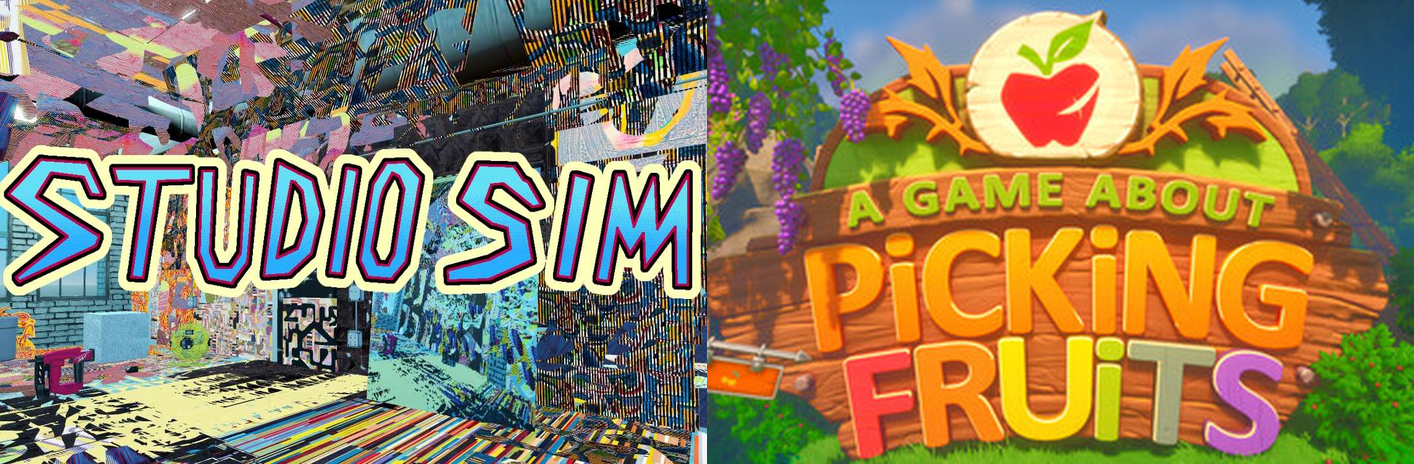
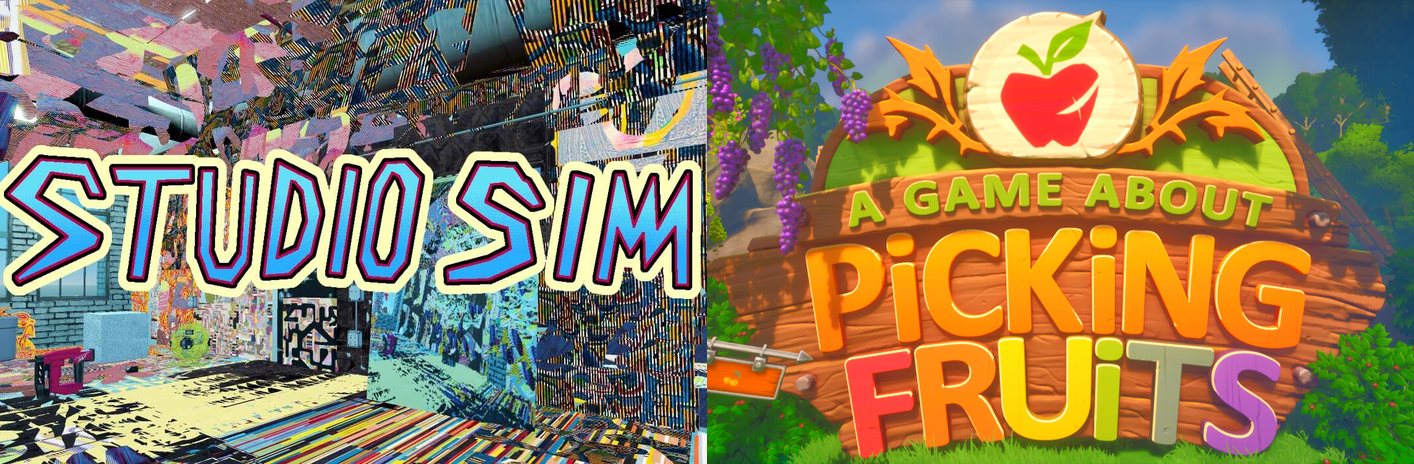
Bundle art: pull partner capsules from Steam, per-size partner art
fetch_steam_art.py downloads a game's 2x store capsules from its store URL.
make_bundle_art.py gains --partner-for so each size uses the best-shaped
partner capsule. Picking Fruits set redone from their full-size capsules.

Claude-Session: https://claude.ai/code/session_01WtdsPCwAw2VSsHfxYu9sJd

diff --git a/Steam/bundle/make_bundle_art.py b/Steam/bundle/make_bundle_art.py
@@ -1,7 +1,8 @@
 """Steam bundle art: your game on one half, a partner game on the other, in every Steamworks bundle size.
 
   python3 make_bundle_art.py --out OUT_DIR --ours DEFAULT_IMG[:box] \
-      [--ours-for SIZE=IMG[:box] ...] --partner SLUG=IMG:box [--partner ...]
+      [--ours-for SIZE=IMG[:box] ...] --partner SLUG=IMG:box [--partner ...] \
+      [--partner-for SLUG.SIZE=IMG:box ...]
 
 box = x0,y0,x1,y1 in that image's own pixels: the area that must stay fully in frame (a partner's title
 lettering; for your own art, the logo/characters you can't lose). Leave it off to just cover-crop.
@@ -59,6 +60,7 @@ ap.add_argument("--out", required=True)
 ap.add_argument("--ours", required=True, help="IMG[:box] used for any size without --ours-for")
 ap.add_argument("--ours-for", action="append", default=[], help="SIZE=IMG[:box]")
 ap.add_argument("--partner", action="append", default=[], help="SLUG=IMG:box")
+ap.add_argument("--partner-for", action="append", default=[], help="SLUG.SIZE=IMG:box (per-size partner art)")
 a = ap.parse_args()
 
 ours = {n: parse(a.ours) for n in SIZES}
@@ -82,14 +84,21 @@ for name, (W, H) in SIZES.items():
                      fill=(150, 150, 160), anchor="mm", align="center")
     tmpl.save(f"{a.out}/{name}.png")
 
+per = {}
+for spec in a.partner_for:
+    key, rest = spec.split("=", 1)
+    slug, n = key.split(".", 1)
+    if n not in SIZES: raise SystemExit(f"unknown size {n}")
+    per[(slug, n)] = parse(rest, need_box=True)
 for spec in a.partner:
     slug, rest = spec.split("=", 1)
-    path, box = parse(rest, need_box=True)
-    src = Image.open(path).convert("RGB")
+    default = parse(rest, need_box=True)
     os.makedirs(f"{a.out}/{slug}", exist_ok=True)
     for name, (W, H) in SIZES.items():
         _, (pw, ph), po = split(name, W, H)
+        path, box = per.get((slug, name), default)
+        src = Image.open(path).convert("RGB")
         im = Image.new("RGB", (W, H)); im.paste(halves[name], (0, 0))
-        im.paste(panel(src, box, pw, ph, 0.94), po)
+        im.paste(src if src.size == (pw, ph) else panel(src, box, pw, ph, 0.94), po)
         im.save(f"{a.out}/{slug}/{name}.png")
     print(slug, "->", f"{a.out}/{slug}/")

diff --git a/Steam/bundle/fetch_steam_art.py b/Steam/bundle/fetch_steam_art.py
@@ -1,0 +1,28 @@
+"""Download a Steam game's store capsules (2x sizes) from its store URL or appid.
+
+  python3 fetch_steam_art.py https://store.steampowered.com/app/5243280/... OUT_DIR
+
+Saves header_2x, small_capsule_2x, main_capsule_2x, hero_capsule_2x (748x896 vertical),
+library_capsule_2x (600x900) and library_hero_2x into OUT_DIR as .jpg. Standard library only.
+"""
+import json, os, re, sys, urllib.parse, urllib.request
+
+src, out = sys.argv[1], sys.argv[2]
+m = re.search(r"/app/(\d+)", src) or re.fullmatch(r"(\d+)", src)
+if not m: raise SystemExit("give a store URL or appid")
+appid = int(m.group(1))
+q = {"ids": [{"appid": appid}], "context": {"language": "english", "country_code": "US"},
+     "data_request": {"include_assets": True}}
+url = "https://api.steampowered.com/IStoreBrowseService/GetItems/v1/?input_json=" + urllib.parse.quote(json.dumps(q))
+item = json.load(urllib.request.urlopen(url))["response"]["store_items"][0]
+assets = item.get("assets") or {}
+os.makedirs(out, exist_ok=True)
+print(appid, item.get("name"))
+for k, v in assets.items():
+    if not k.endswith("_2x"): continue
+    u = f"https://shared.fastly.steamstatic.com/store_item_assets/steam/apps/{appid}/{v}"
+    try:
+        with urllib.request.urlopen(u) as r, open(f"{out}/{k}.jpg", "wb") as f: f.write(r.read())
+        print("  ", k)
+    except Exception as e:
+        print("  ", k, "failed:", e)

diff --git a/Steam/bundle/README.md b/Steam/bundle/README.md
@@ -1,16 +1,22 @@
 # Steam bundle art
 
-Made with the steam-bundle-art skill. Studio Sim's half comes from the live store capsules in `../store_art/` (pulled from Steam, appid 4278180).
+Made with the steam-bundle-art skill. Studio Sim's half comes from its live store capsules in `../store_art/` (appid 4278180). Each partner's capsules go in `partner_art/<slug>/`.
 
-Re-run for a new partner (add their header to `partner_headers/` and box their title lettering):
+New partner, from their store URL:
 
 ```
 cd Steam
+python3 bundle/fetch_steam_art.py <store url> bundle/partner_art/<slug>
+# view their hero_capsule_2x, main_capsule_2x and small_capsule_2x, box the title lettering in each, then:
 python3 bundle/make_bundle_art.py --out bundle \
   --ours store_art/hero_capsule_2x.jpg:15,205,735,705 \
   --ours-for bundle_header=store_art/main_capsule_2x.jpg:35,220,1180,455 \
   --ours-for vertical_capsule=store_art/main_capsule_2x.jpg:35,220,1180,455 \
-  --partner picking_fruits=bundle/partner_headers/picking_fruits.jpg:112,78,358,212
+  --partner <slug>=bundle/partner_art/<slug>/hero_capsule_2x.jpg:<box> \
+  --partner-for <slug>.bundle_header=bundle/partner_art/<slug>/main_capsule_2x.jpg:<box> \
+  --partner-for <slug>.vertical_capsule=bundle/partner_art/<slug>/main_capsule_2x.jpg:<box> \
+  --partner-for <slug>.small_capsule=bundle/partner_art/<slug>/small_capsule_2x.jpg:<box>
 ```
 
-Partners: `picking_fruits/` (A Game About Picking Fruits).
+Partners so far:
+- `picking_fruits/`: A Game About Picking Fruits (app 5243280). Boxes: hero 110,380,660,690; main 246,260,1020,685; small 148,62,335,168.
